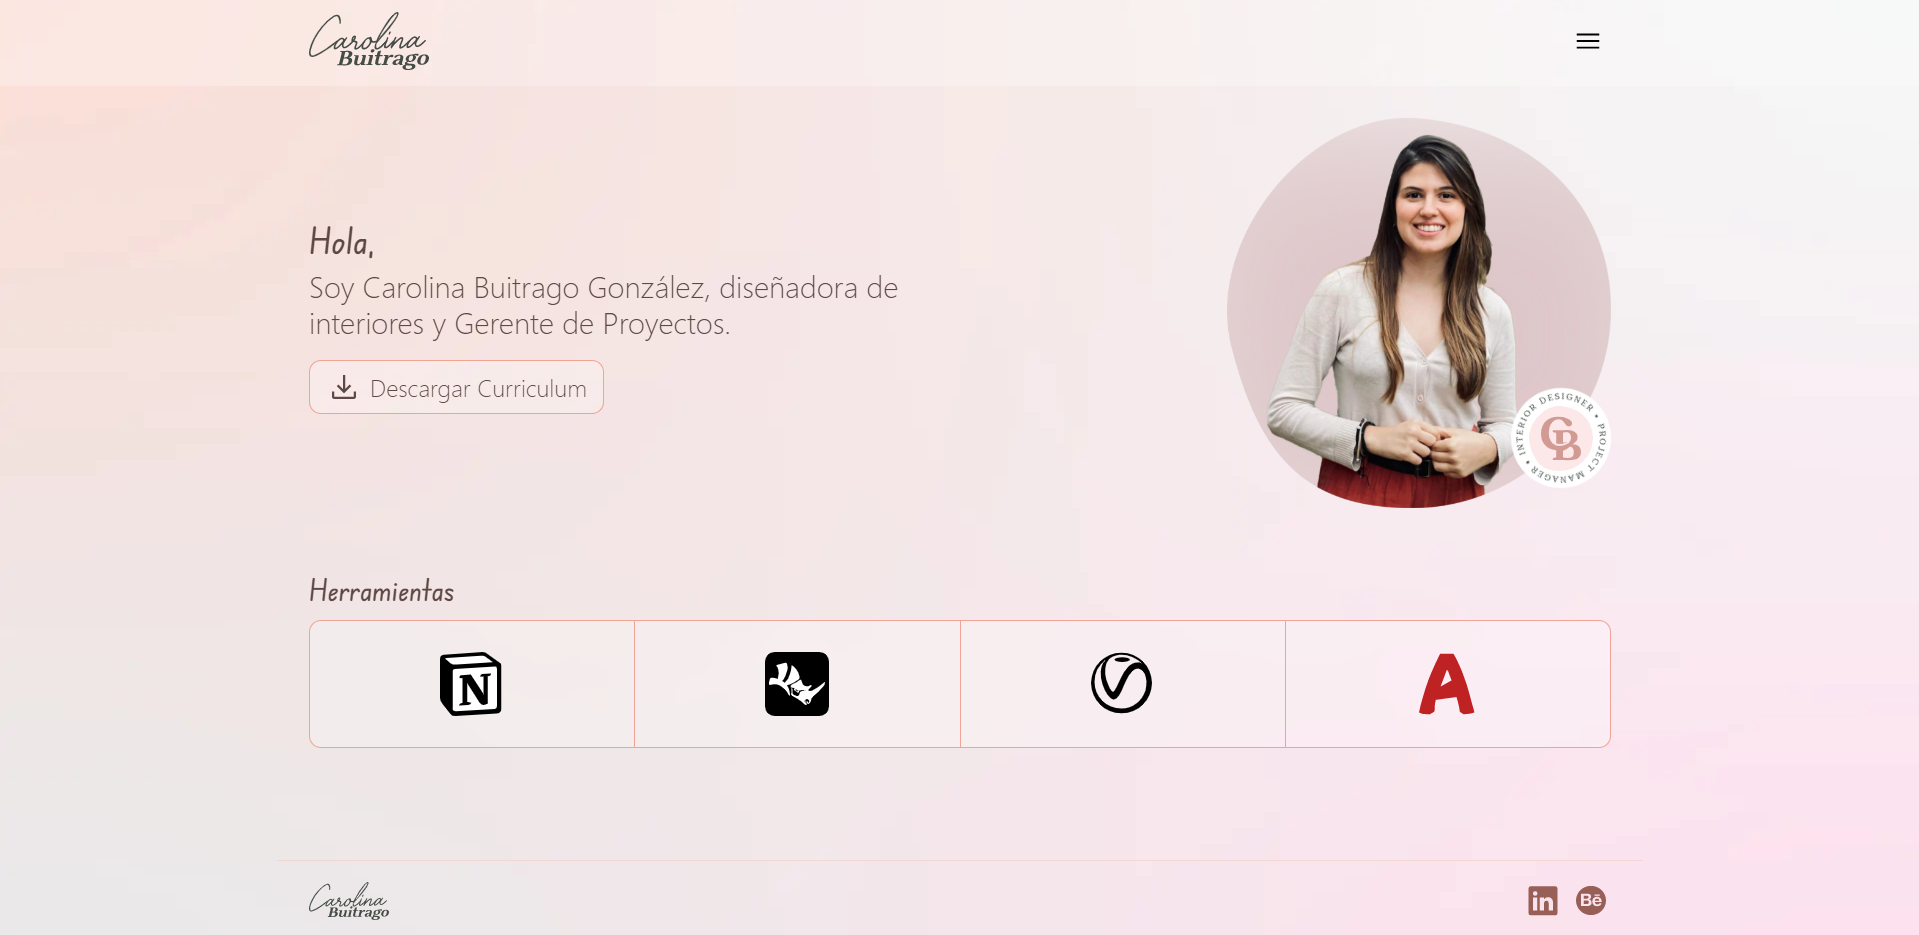
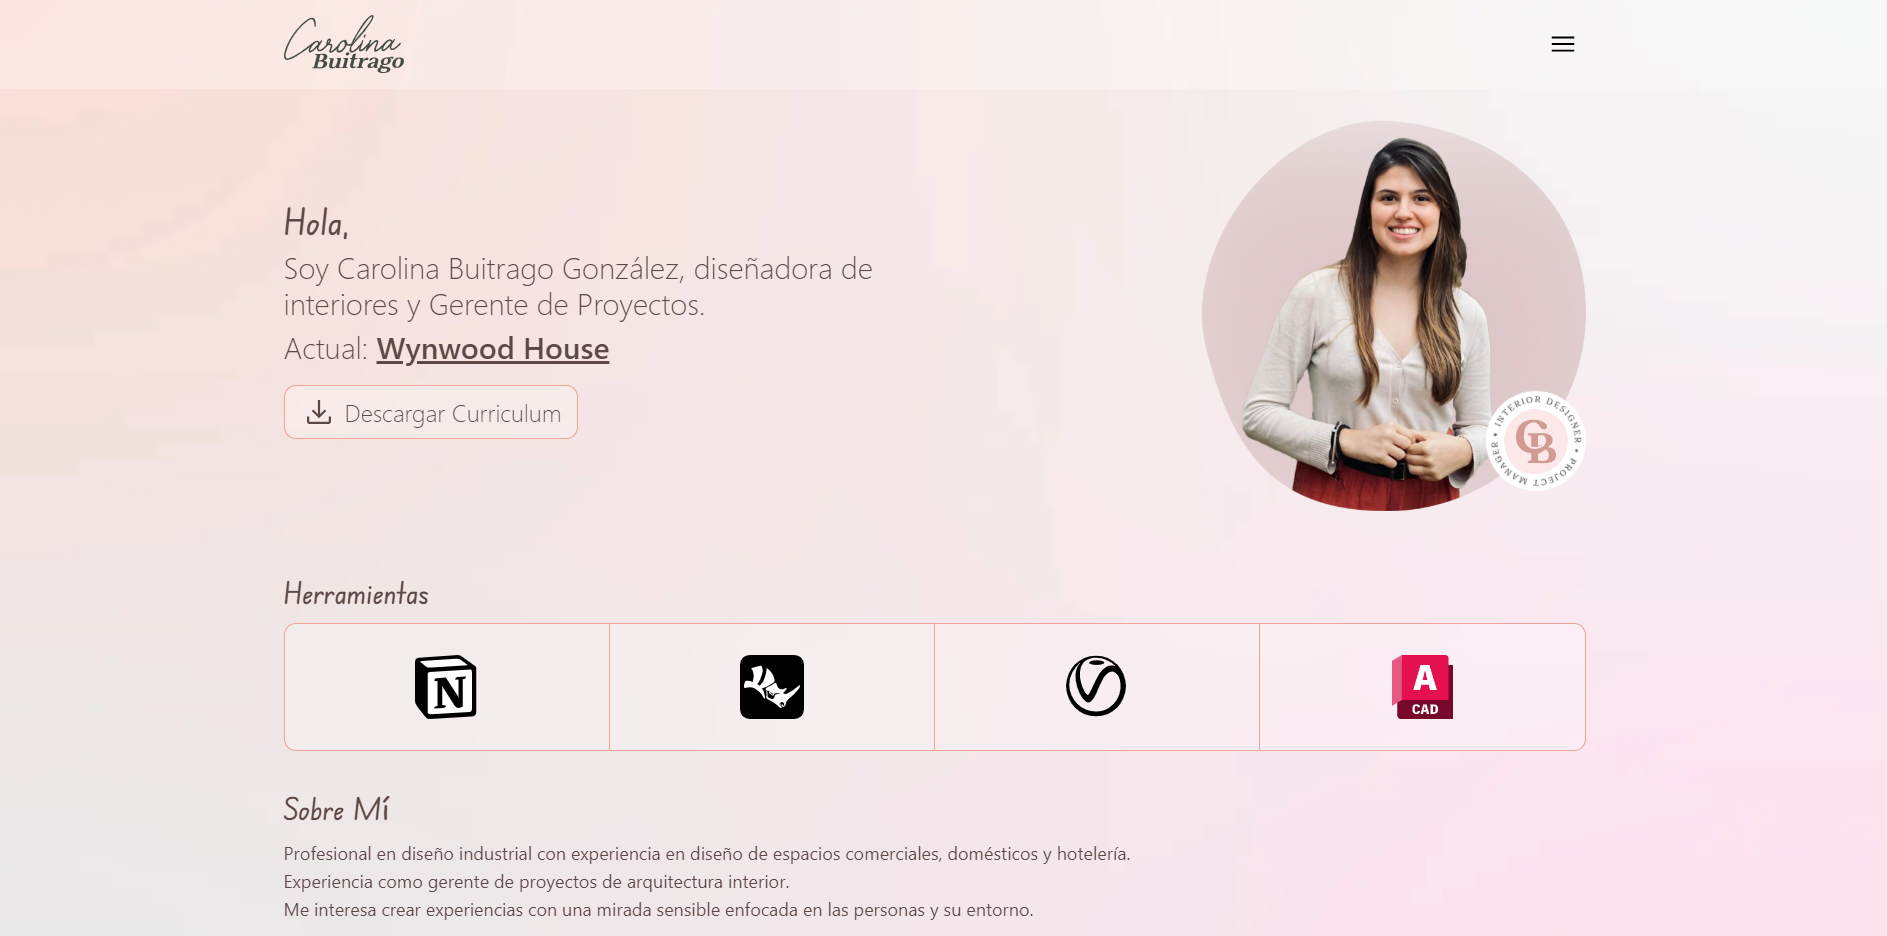
Add I18n to Carolina website

diff --git a/src/components/Home.vue b/src/components/Home.vue
@@ -5,10 +5,10 @@
       <main class="bg-transparent mt-5 lg:mt-8 mb-16">
         <div class="wrapper gap-3 flex justify-between flex-col-reverse lg:flex-row items-center">
           <article class="flex flex-col md:w-1/2 write">
-            <p class="text-3xl lg:text-4xl text-[var(--DarkText)] mt-2">Hola,</p>
-            <h1 class="text-3xl lg:text-3xl text-[var(--DarkText)] mt-2 font-sans font-light">Soy Carolina Buitrago González, diseñadora de interiores y Gerente de Proyectos.</h1>
-            <h2 class="text-3xl lg:text-3xl text-[var(--DarkText)] mt-2 font-sans font-light">Actual: <span class="font-semibold"><a href="https://wynwood-house.com/" class="underline" target="_blank" rel="noopener noreferrer">Wynwood House</a></span></h2>
-            <a href="https://drive.google.com/file/d/103WUKBrwMDqoH-qhPRj-ZDpdxptlVwTJ/view?usp=sharing" target="_blank" class="flex items-center gap-x-2 bg-white/25 mt-5 border border-[var(--baseDarkColor)] lg:w-fit w-full rounded-xl px-4 py-2 font-sans font-light text-[var(--DarkText)] text-2xl hover:bg-[var(--baseDarkColor)] transition-all duration-300 descarga">Descargar Curriculum</a>
+            <p class="text-3xl lg:text-4xl text-[var(--DarkText)] mt-2">{{ $t('greeting') }}</p>
+            <h1 class="text-3xl lg:text-3xl text-[var(--DarkText)] mt-2 font-sans font-light">{{ $t('summary') }}</h1>
+            <h2 class="text-2xl lg:text-2xl text-[var(--DarkText)] mt-6 font-sans font-light">{{$t('current')}} <span class="font-semibold"><a href="https://wynwood-house.com/" class="px-4 py-1 bg-rose-400/10 hover:bg-[var(--baseDarkColor)] rounded-lg w-fit transition-colors duration-300" target="_blank" rel="noopener noreferrer">Wynwood House</a></span></h2>
+            <a href="https://drive.google.com/file/d/103WUKBrwMDqoH-qhPRj-ZDpdxptlVwTJ/view?usp=sharing" target="_blank" class="flex items-center gap-x-2 bg-white/75 mt-5 border border-[var(--baseDarkColor)] lg:w-fit w-full rounded-xl px-4 py-2 font-sans text-[var(--DarkText)] text-2xl hover:bg-[var(--baseDarkColor)] transition-colors duration-300 descarga font-normal">{{ $t('download')}}</a>
           </article>
           <figure class="relative" v-motion-slide-bottom>
             <img width="300" height="300" class="lg:w-96" src="/background/perfilCaro.webp" alt="foto principal del perfil de caro">
@@ -21,7 +21,7 @@
       </main>
       <!-- Herramientas -->
       <section class="wrapper w-fit mb-5">
-        <h2 class="mb-3 text-[var(--DarkText)] write text-3xl">Herramientas</h2>
+        <h2 class="mb-3 text-[var(--DarkText)] write text-3xl">{{ $t('tools') }}</h2>
         <ul class="grid grid-cols-2 lg:flex lg:flex-row items-center justify-evenly lg:h-32 lg:border lg:border-[var(--baseDarkColor)] bg-white/25 backdrop-blur-xl rounded-xl toolSection">
           <li v-tooltip.top="'Notion'"  class="py-5 rounded-tl-lg lg:py-0 border border-[var(--baseDarkColor)] lg:border-none hover:bg-white/40 transition-colors duration-200"><img class="w-16" height="65" width="65" src="/icons/Notion-logo.svg" alt="logo herramientas Notion"></li>
           <em class="hidden lg:block divider lg:w-1 lg:h-full w-full h-0.5"></em>
@@ -35,11 +35,11 @@
 
       <!-- Sobre Mi -->
       <section class="wrapper w-fit pt-10 text-[var(--DarkText)] ">
-        <h2 class="mb-3 write text-3xl">Sobre Mí</h2>
+        <h2 class="mb-3 write text-3xl">{{ $t('aboutMe') }}</h2>
         <article class="text-lg">
-          <p>Profesional en diseño industrial con experiencia en diseño de espacios comerciales, domésticos y hotelería.</p>
-          <p>Experiencia como gerente de proyectos de arquitectura interior.</p>
-          <p>Me interesa crear experiencias con una mirada sensible enfocada en las personas y su entorno.</p>
+          <p>{{$t('aboutP1')}}</p>
+          <p>{{$t('aboutP2')}}</p>
+          <p>{{$t('aboutP3')}}</p>
         </article>
       </section>
 

diff --git a/src/components/mainNav.vue b/src/components/mainNav.vue
@@ -2,7 +2,19 @@
 export default {
   data() {
     return {
-      showMenu:false
+      showMenu:false,
+      lang: 'ES'
+    }
+  },
+  methods:{
+    toggleLang(){
+      if (this.$i18n.locale === 'es') {
+        this.lang ='EN'
+        this.$i18n.locale = 'en'
+      } else {
+        this.lang ='ES'
+        this.$i18n.locale = 'es'
+      }
     }
   }
 }
@@ -14,6 +26,7 @@ export default {
         <img src="/icons/CaroWeb.svg" width="120" height="57.92" alt="logo menu caro">
       </figure>
       <div class="flex gap-4 items-center">
+        <button @click="toggleLang" class="hover:bg-[var(--baseColor)] rounded-lg py-1 px-3 transition-all duration-200"> <em >{{lang}}</em> </button>
         <a @click="showMenu = true" class="hover:bg-[var(--baseColor)] rounded-full py-2 px-2 transition-all duration-200">
           <img src="/icons/menu.svg" width="30" height="30" alt="icono de menu">
         </a>
@@ -27,11 +40,11 @@ export default {
               <img src="/icons/close.svg" width="30" height="30" alt="icono de menu">
             </a>
           <div class="flex flex-col lg:flex-row w-screen lg:justify-between h-full">
-            <a target="_blank" href="https://repository.upb.edu.co/bitstream/handle/20.500.11912/7551/Los%20objetos%20condicionantes%20el%20uso%20re-adaptativo.pdf?sequence=1&isAllowed=y" class="text-4xl font-semibold p-5 w-full h-full text-center flex justify-center items-center py-12 lg:py-40 hover:text-[var(--DarkSoftText)]">Publicaciones</a>
+            <a target="_blank" href="https://www.linkedin.com/in/carolinabg/" class="text-4xl font-semibold p-5 w-full h-full text-center flex justify-center items-center py-12 lg:py-40 hover:text-[var(--DarkSoftText)]">{{$t('contact')}}</a>
             <div class="lg:border-r border-b border-slate-100"></div>
-            <a target="_blank" href="https://www.linkedin.com/in/carolinabg/" class="text-4xl font-semibold p-5 w-full h-full text-center flex justify-center items-center py-12 lg:py-40 hover:text-[var(--DarkSoftText)]">Contacto</a>
+            <a target="_blank" href="https://drive.google.com/file/d/103WUKBrwMDqoH-qhPRj-ZDpdxptlVwTJ/view?usp=sharing" class="text-4xl font-semibold p-5 w-full h-full text-center flex justify-center items-center py-12 lg:py-40 hover:text-[var(--DarkSoftText)]">{{$t('projects')}}</a>
             <div class="lg:border-r border-b border-slate-100"></div>
-            <a target="_blank" href="https://drive.google.com/file/d/103WUKBrwMDqoH-qhPRj-ZDpdxptlVwTJ/view?usp=sharing" class="text-4xl font-semibold p-5 w-full h-full text-center flex justify-center items-center py-12 lg:py-40 hover:text-[var(--DarkSoftText)]">Proyectos</a>
+            <a target="_blank" href="https://repository.upb.edu.co/bitstream/handle/20.500.11912/7551/Los%20objetos%20condicionantes%20el%20uso%20re-adaptativo.pdf?sequence=1&isAllowed=y" class="text-4xl font-semibold p-5 w-full h-full text-center flex justify-center items-center py-12 lg:py-40 hover:text-[var(--DarkSoftText)]">{{$t(   'publications')}}</a>
           </div>
         </div>
         <div class="bg-white w-full py-5 absolute -bottom-20 left-0 rounded-lg">

diff --git a/src/main.js b/src/main.js
@@ -1,14 +1,55 @@
 import { createApp } from 'vue'
 import { MotionPlugin } from '@vueuse/motion'
+import { createI18n } from 'vue-i18n';
 import PrimeVue from 'primevue/config';
 import "primevue/resources/themes/lara-light-indigo/theme.css";     
 import "primevue/resources/primevue.min.css";
 import "primeicons/primeicons.css";
 import Tooltip from 'primevue/tooltip';
 
+// Translations
+
+
 import './style.css'
 import App from './App.vue'
 const app = createApp(App);
+
+// Create a new VueI18n instance
+const i18n = createI18n({
+  
+  legacy: false,
+  locale: 'es', // Set the default locale
+  messages: {
+    es: {
+      greeting: '¡Hola!',
+      summary: 'Soy Carolina Buitrago González, Diseñadora de Interiores y Gestora de Proyectos.',
+      tools: 'Herramientas',
+      aboutMe: 'Acerca de mí',
+      aboutP1: 'Profesional en diseño industrial con experiencia en diseño de espacios comerciales, domésticos y hotelería.',
+      aboutP2: 'Tengo experiencia como gerente de proyectos de arquitectura interior.',
+      aboutP3: 'Me interesa crear experiencias con una mirada sensible enfocada en las personas y su entorno.',
+      download: 'Descargar Curriculum',
+      current: 'Actualmente en:',
+      publications: 'Publicaciones',
+      contact: 'Contacto',
+      projects: 'Proyectos',
+    },
+    en: {
+      greeting: 'Hi!',
+      summary: 'I am Carolina Buitrago, Interior Designer and Project Manager.',
+      tools: 'Tools',
+      aboutMe: 'About me',
+      aboutP1: 'I am an industrial design professional with experience in designing commercial, residential, and hospitality spaces.',
+      aboutP2: 'I have experience as an interior architecture project manager.',
+      aboutP3: 'I am interested in creating experiences with a sensitive approach focused on people and their needs.',
+      download: 'Download Curriculum',
+      current: 'Currently at:',
+      publications: 'Publications',
+      contact: 'Contact',
+      projects: 'Projects',
+    },
+  }
+});
 
 
 // Components
@@ -18,6 +59,7 @@ app.component('Sidebar', Sidebar);
 app.component('Button', Button);
 app.directive('tooltip', Tooltip);
 
+app.use(i18n);
 app.use(PrimeVue);
 app.use(MotionPlugin);
 app.mount('#app');

diff --git a/index.html b/index.html
@@ -7,7 +7,7 @@
     <link rel="preconnect" href="https://fonts.googleapis.com">
     <link rel="preconnect" href="https://fonts.gstatic.com" crossorigin>
     <link href="https://fonts.googleapis.com/css2?family=Edu+NSW+ACT+Foundation:wght@500;600&family=Playfair+Display:ital,wght@0,400;0,600;1,400;1,500;1,700&display=swap" rel="stylesheet">
-    <title>Carolina Buitrago | Interiorist</title>
+    <title>Carolina Buitrago | Interiorist & Project Manager</title>
   </head>
   
   <body>

diff --git a/src/locales/en.js b/src/locales/en.js
@@ -1,0 +1,7 @@
+export default {
+  messages: {
+    greeting: 'Hello!',
+    goodbye: 'Goodbye!',
+    // ...other translations
+  }
+}

diff --git a/src/locales/es.js b/src/locales/es.js
@@ -1,0 +1,7 @@
+export default {
+  messages: {
+    greeting: 'Hola,',
+    goodbye: 'Adiós!',
+    // ...other translations
+  }
+}
